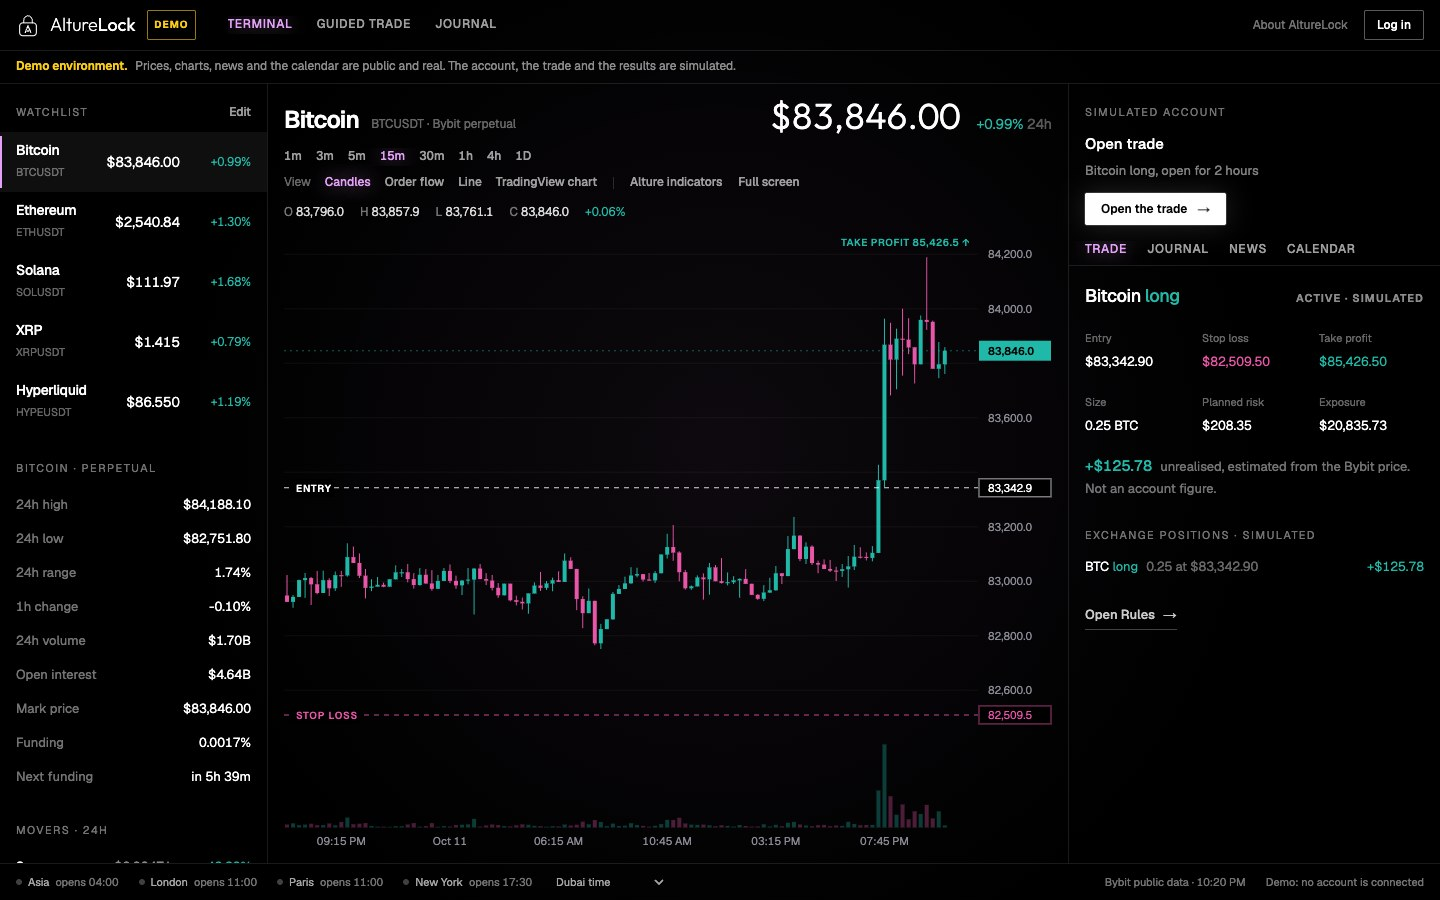
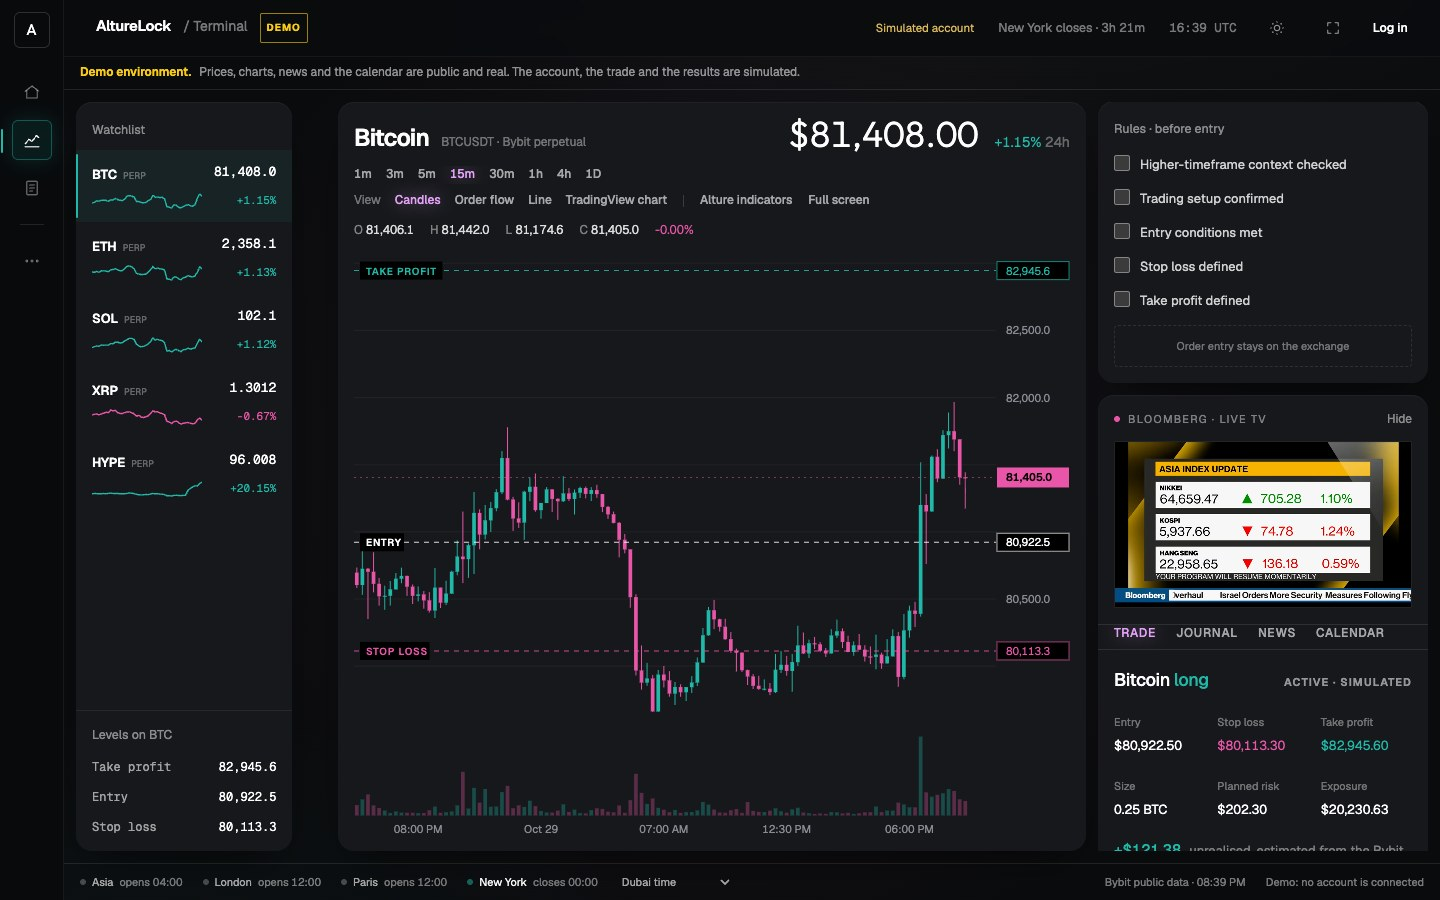
Dark theme by default; product page shows the new terminal with live TV

diff --git a/src/utils/use-theme.ts b/src/utils/use-theme.ts
@@ -2,18 +2,18 @@
 
 import { useCallback, useEffect, useState } from "react";
 
-// Light or dark, for the AltureLock pages that offer both. Light is the default;
+// Light or dark, for the AltureLock pages that offer both. Dark is the default;
 // the choice is kept in this browser and shared by every open tab.
 export type Theme = "light" | "dark";
 const KEY = "alturelock:theme";
 const EVENT = "alturelock:theme-change";
 
 export function useTheme(): [Theme, (theme: Theme) => void] {
-    const [theme, setTheme] = useState<Theme>("light");
+    const [theme, setTheme] = useState<Theme>("dark");
     useEffect(() => {
         const read = () => {
             try {
-                setTheme(window.localStorage.getItem(KEY) === "dark" ? "dark" : "light");
+                setTheme(window.localStorage.getItem(KEY) === "light" ? "light" : "dark");
             } catch {
                 // storage refused: stay on the default
             }
